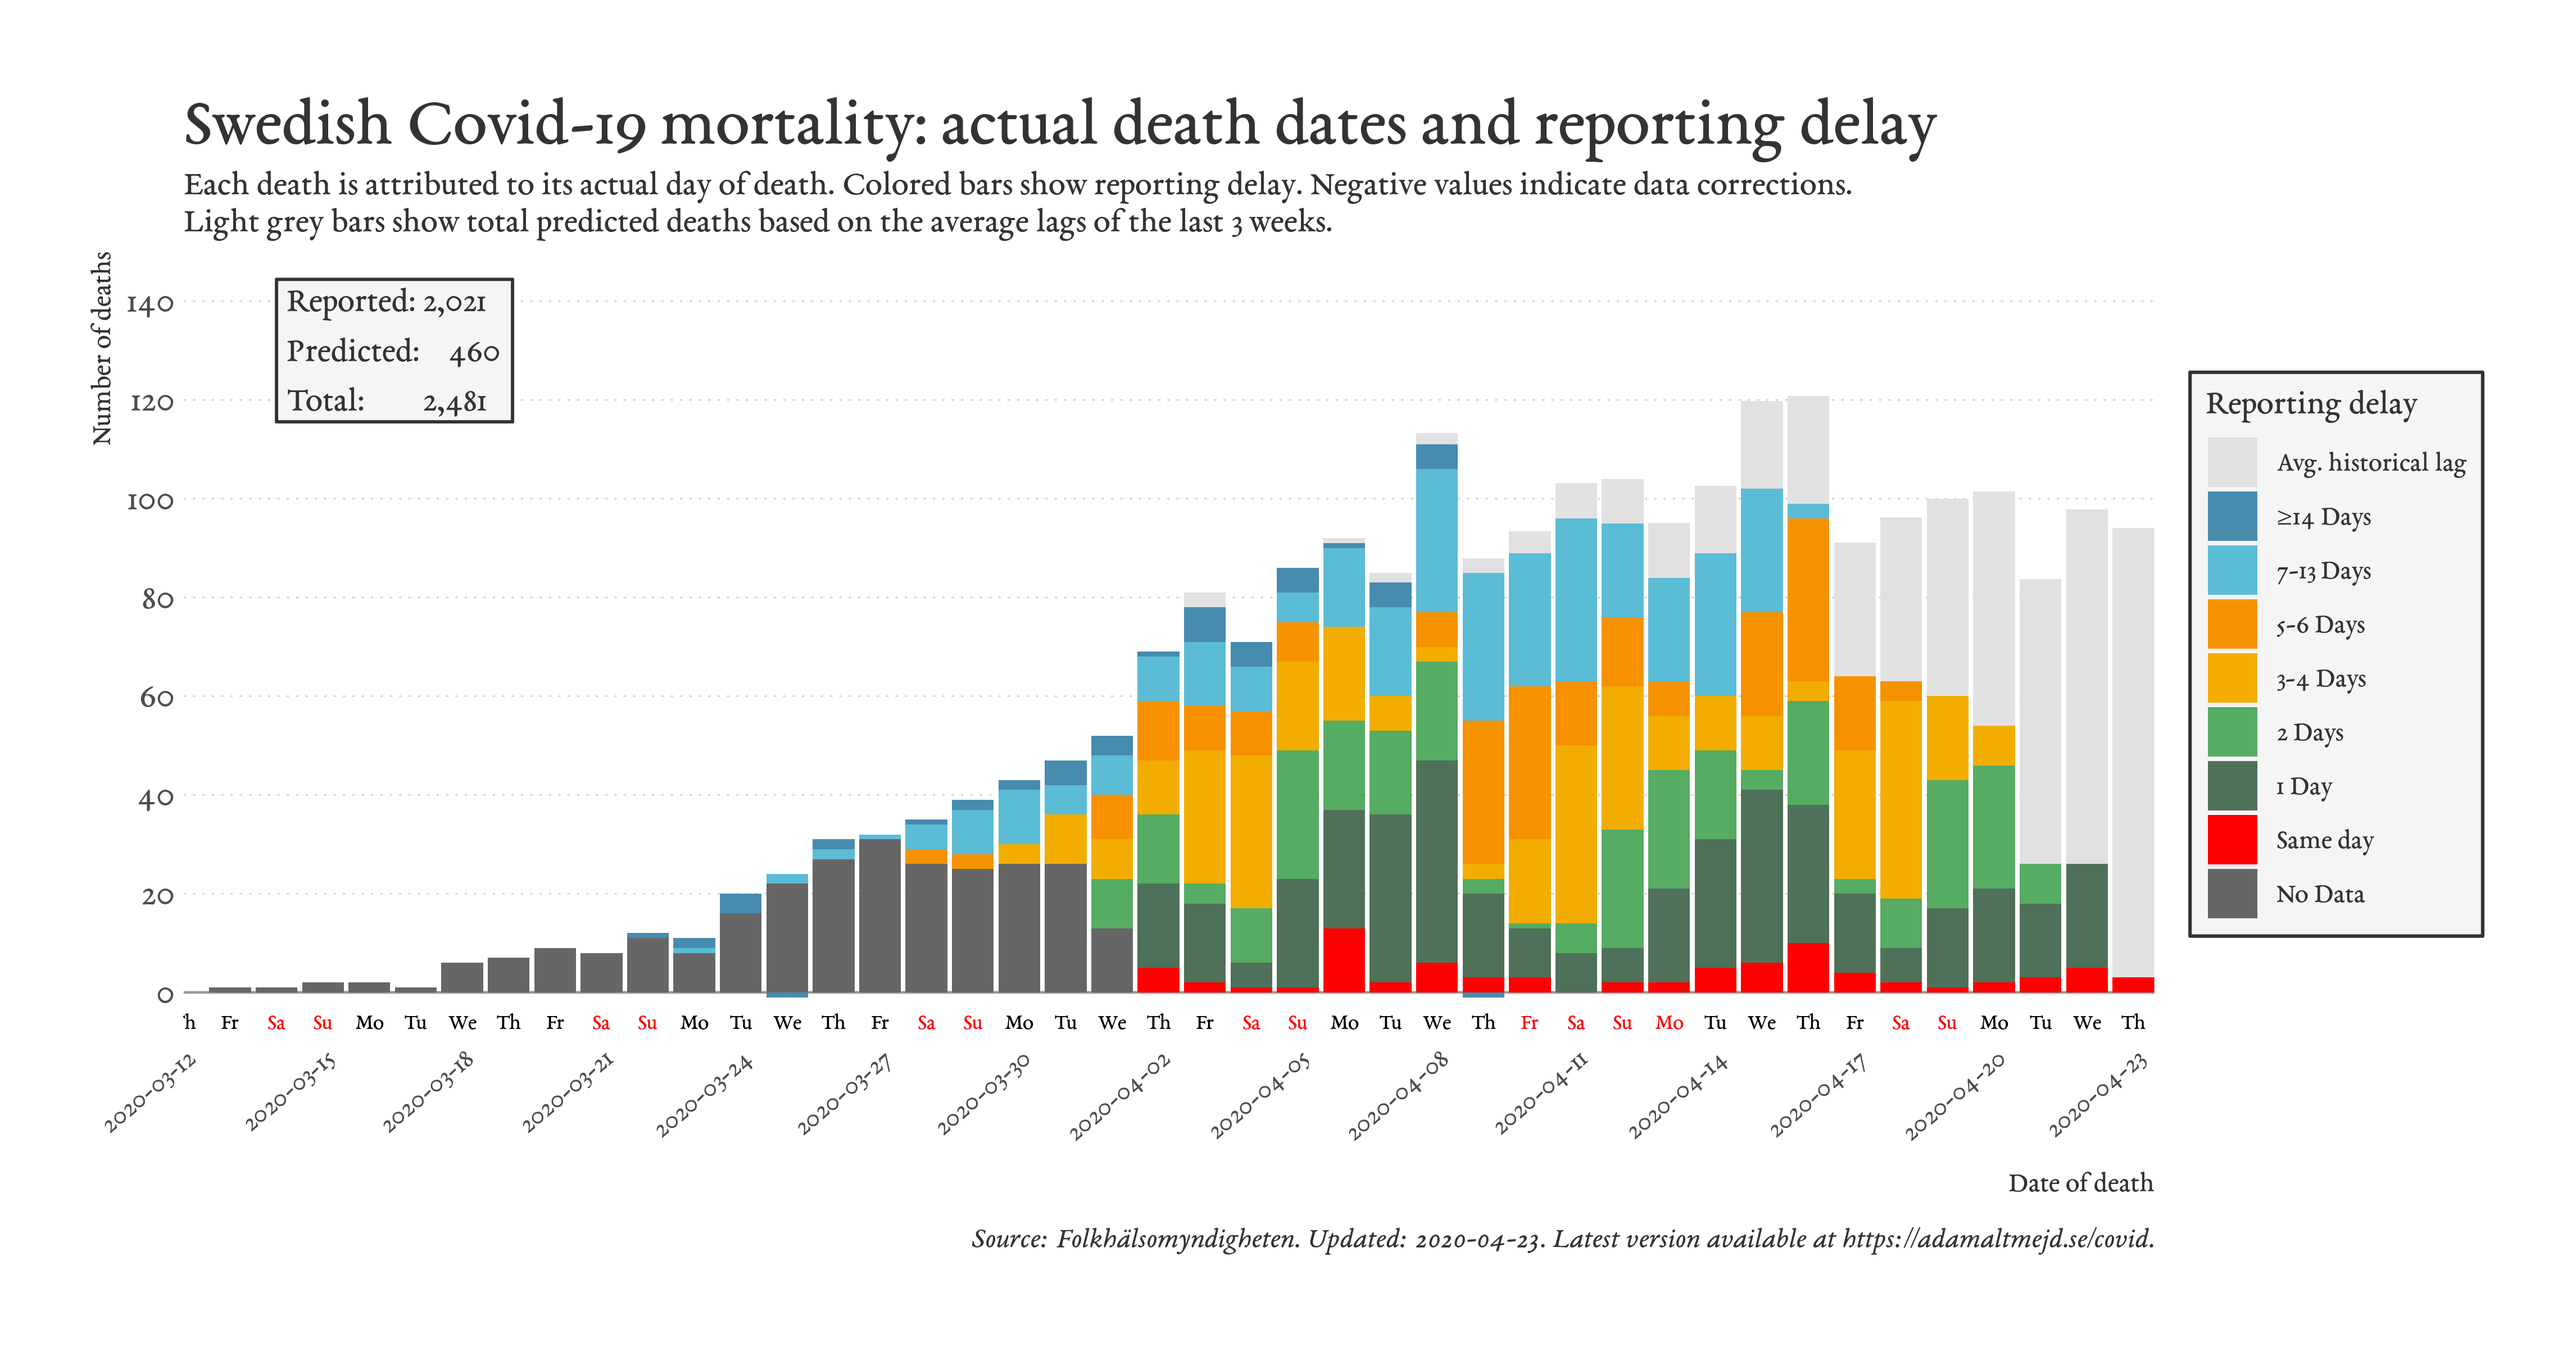
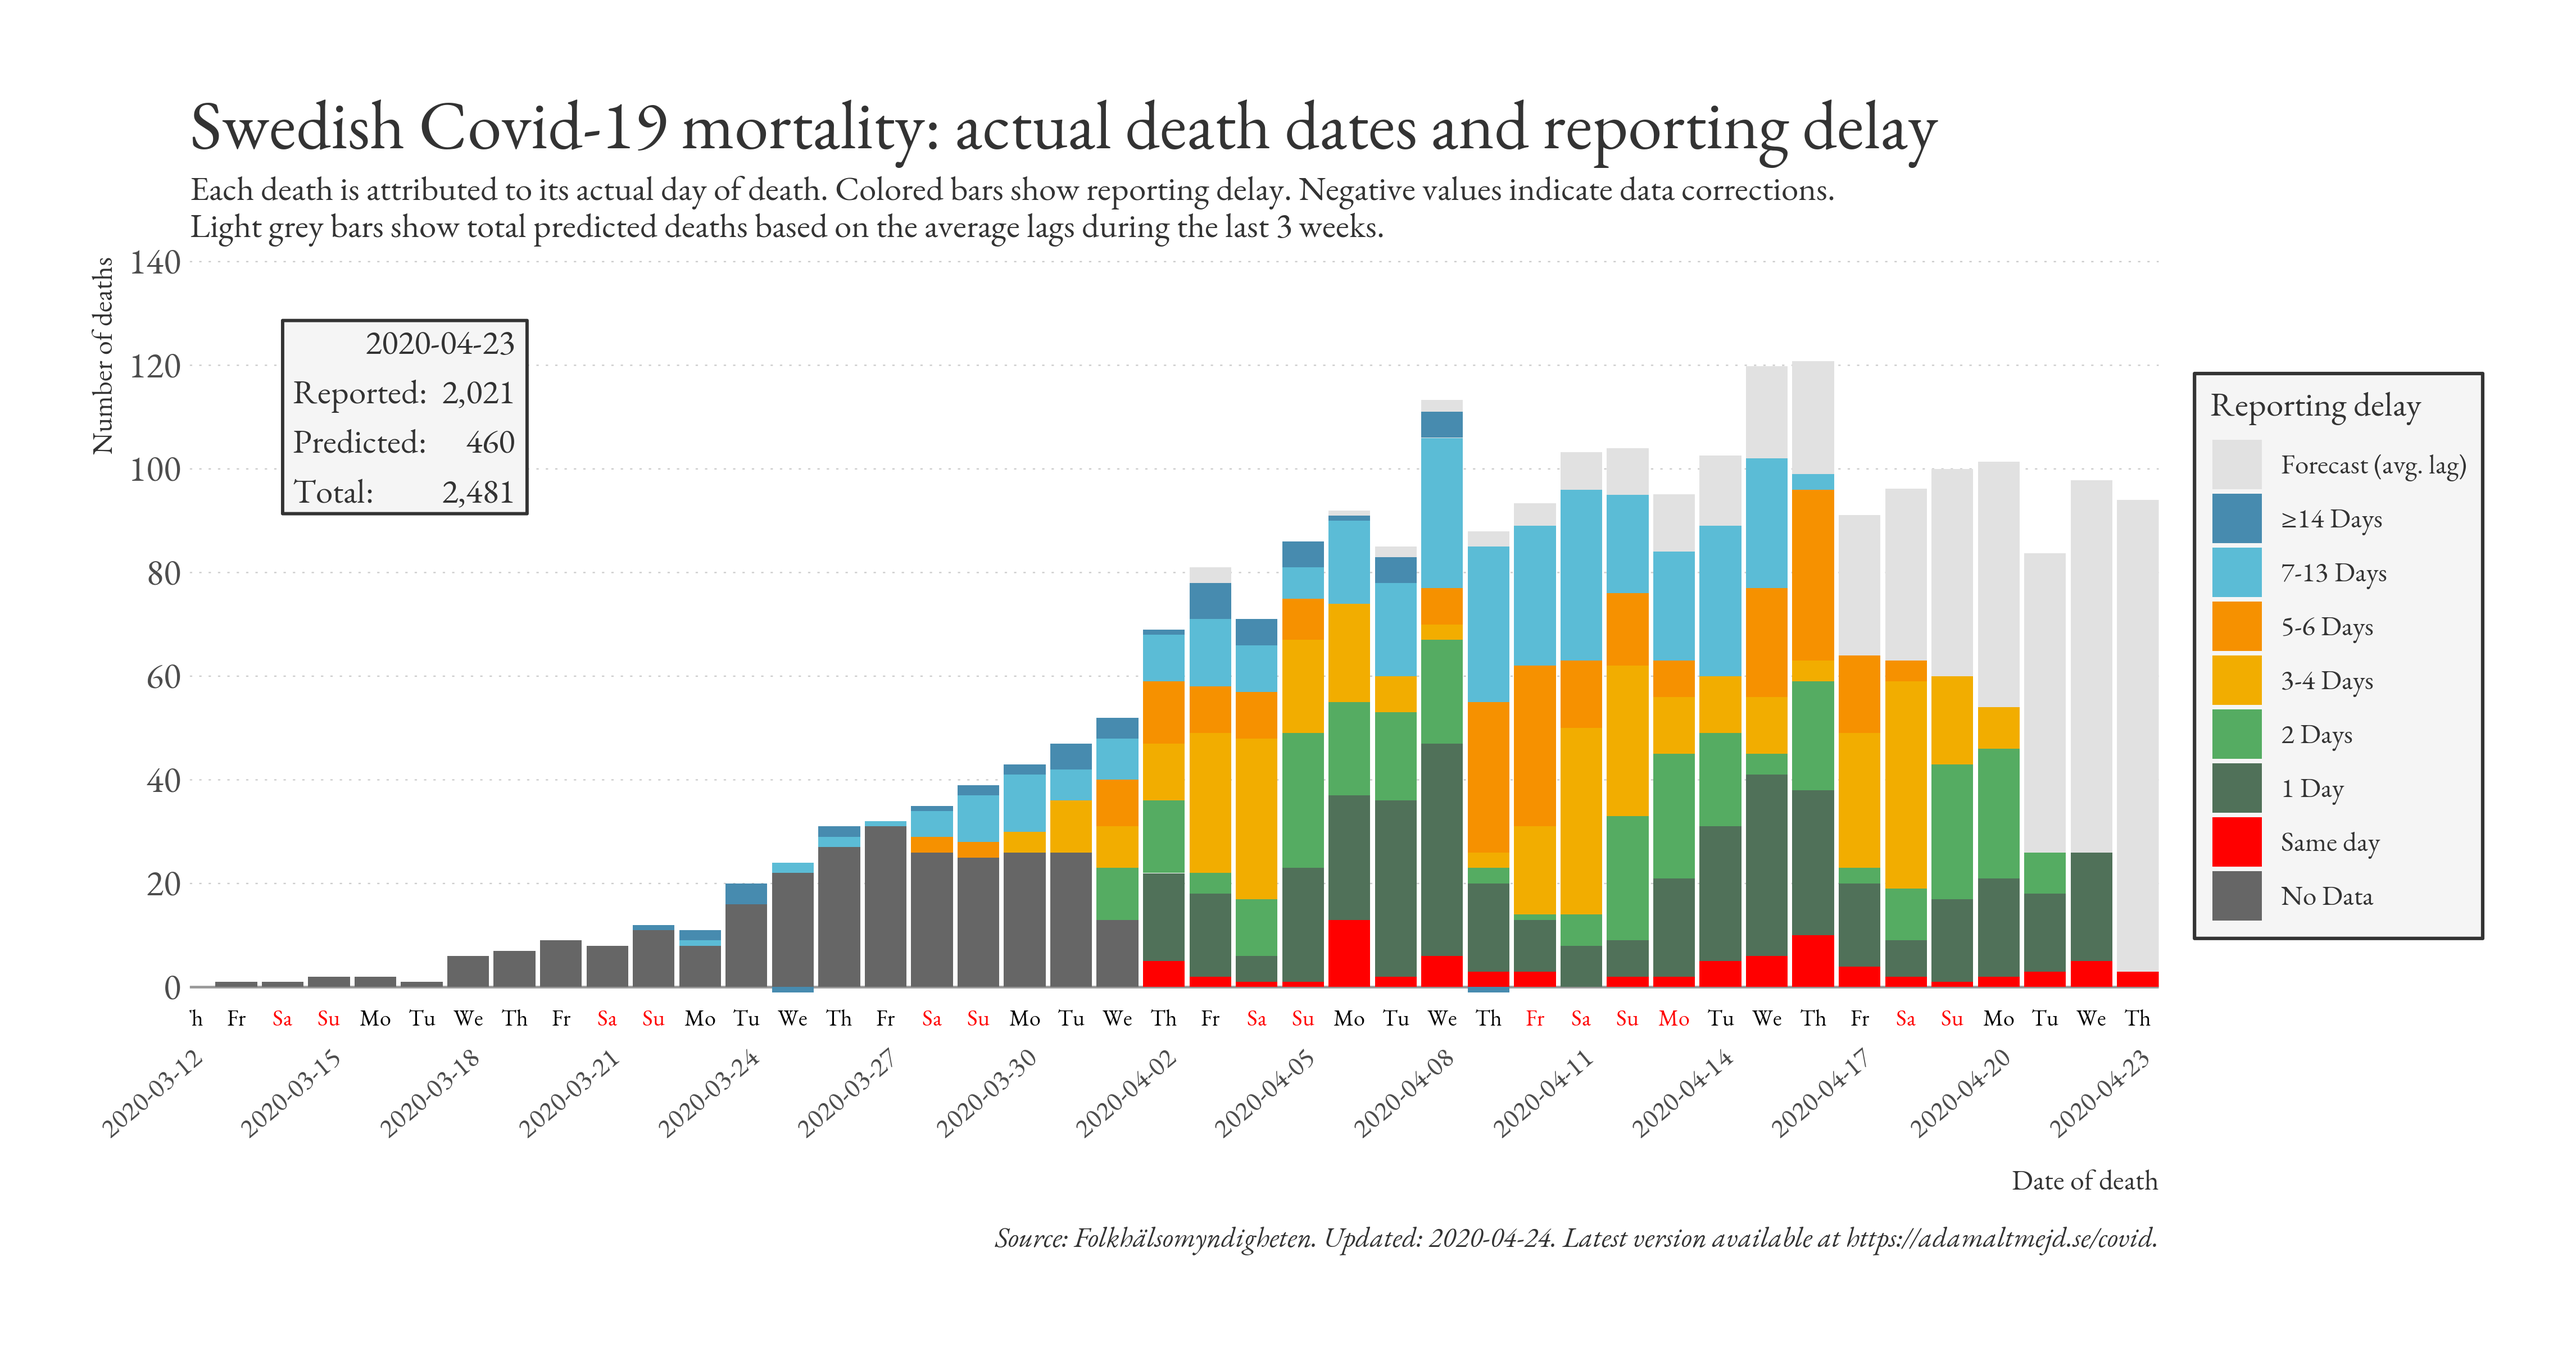
fixed alignment

diff --git a/docs/index.md b/docs/index.md
@@ -2,8 +2,8 @@
 layout: page
 title: Reported Covid-19 deaths in Sweden
 author: Adam Altmejd
-date: 2020-04-23
+date: 2020-04-24
 ---
 
-![Graph of Swedish Covid-19 deaths with reporting delay.](deaths_lag_sweden_2020-04-23.png "Reporting delay in Swedish covid-19 deaths.")
+![Graph of Swedish Covid-19 deaths with reporting delay.](deaths_lag_sweden_2020-04-24.png "Reporting delay in Swedish covid-19 deaths.")
 For code and data, visit <https://github.com/adamaltmejd/covid>.
